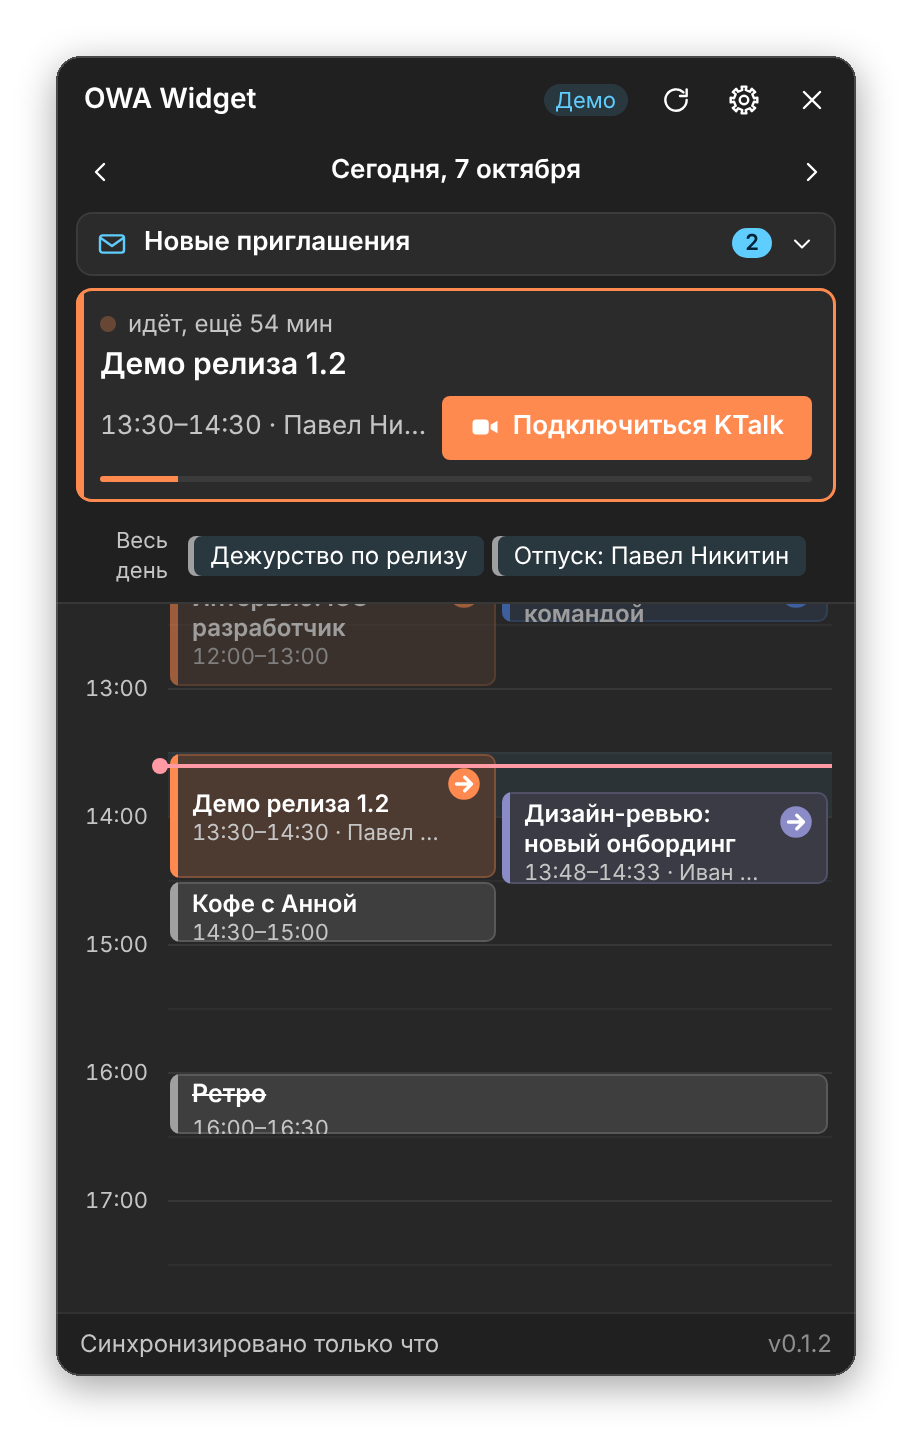
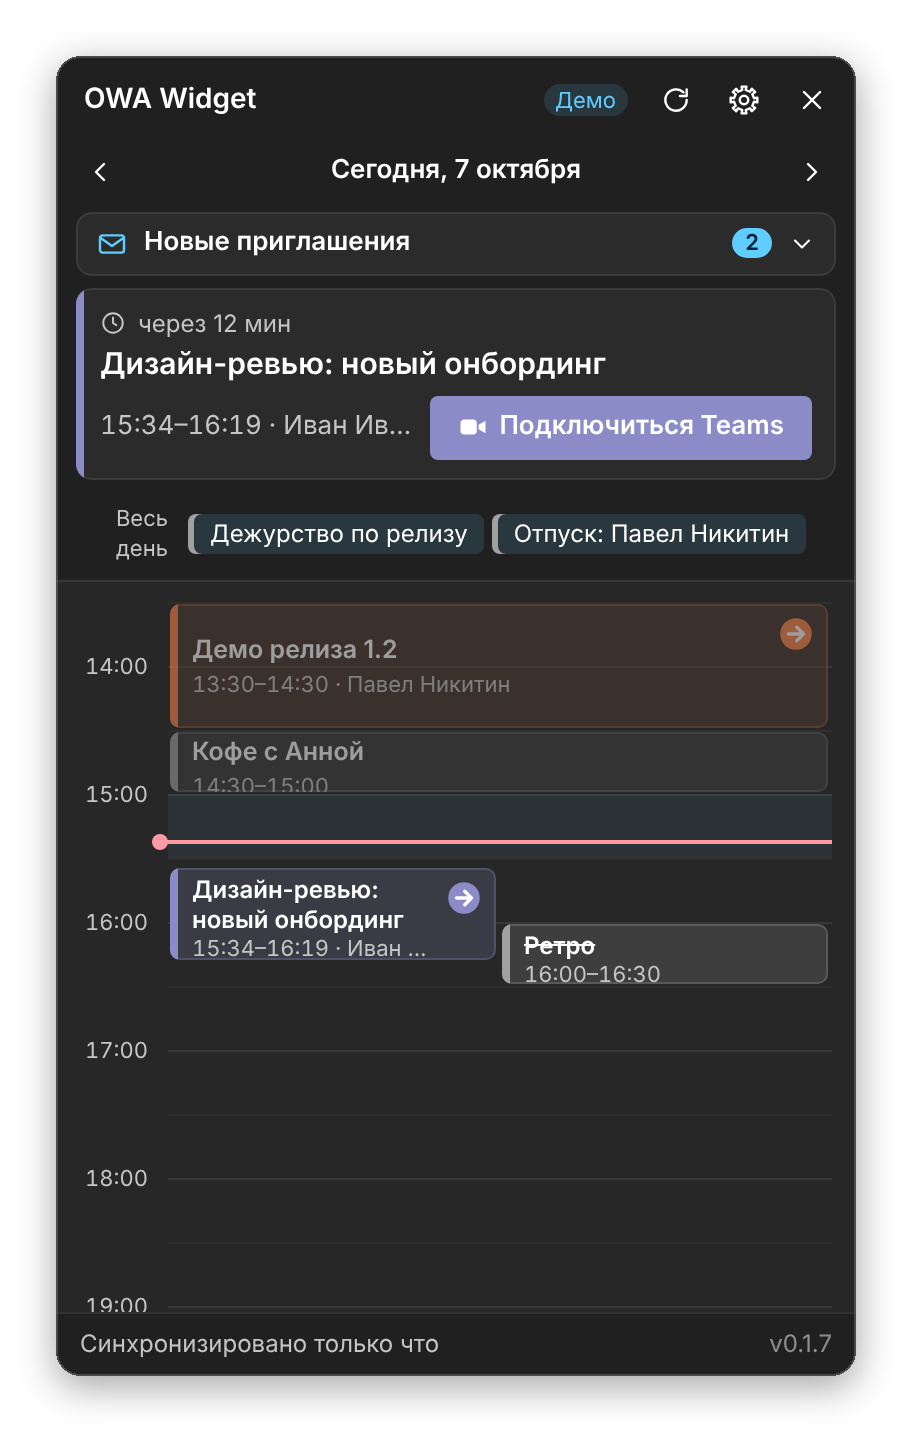
Working hours: the day timeline shows a configurable range (default 08:00–20:00), widened to keep every meeting in view

diff --git a/src/renderer/Timeline.tsx b/src/renderer/Timeline.tsx
@@ -1,7 +1,7 @@
 import { useEffect, useLayoutEffect, useMemo, useRef } from 'react';
 import type { CalendarEvent } from '../shared/types';
 import { displayTitle, isEffectivelyCancelled, joinUrlForActions, sameDay } from '../shared/events';
-import { layoutDay } from '../shared/timeline';
+import { layoutDay, visibleRange, type Workday } from '../shared/timeline';
 import { Icon } from './icons';
 import { range } from './format';
 import { eventColor } from './hooks';
@@ -13,24 +13,29 @@ interface Props {
   events: CalendarEvent[];
   day: Date;
   now: Date;
+  workday: Workday;
   t: Dict;
   lang: Lang;
   onOpen: (e: CalendarEvent) => void;
   onJoin: (e: CalendarEvent) => void;
 }
 
-export function Timeline({ events, day, now, t, lang, onOpen, onJoin }: Props) {
+export function Timeline({ events, day, now, workday, t, lang, onOpen, onJoin }: Props) {
   const ref = useRef<HTMLDivElement>(null);
   const isToday = sameDay(day, now);
   const blocks = useMemo(() => layoutDay(events, day), [events, day]);
   const nowMin = now.getHours() * 60 + now.getMinutes();
+  // The working day, widened to keep every meeting (and "now", today) in view.
+  const range0 = useMemo(() => visibleRange(blocks, workday, isToday ? nowMin : undefined), [blocks, workday, isToday, nowMin]);
+  const y = (min: number) => ((min - range0.startMin) * HOUR) / 60;
 
-  // Show from an hour before the first meeting (or an hour before now) down to the end of the day.
+  // Scroll to an hour before the first meeting (or an hour before now).
   const scrollTarget = useMemo(() => {
     const anchors = [...blocks.map((b) => b.startMin)];
-    const first = isToday ? Math.min(nowMin, ...(anchors.length ? anchors.filter((m) => m + 60 >= nowMin) : [nowMin])) : (anchors[0] ?? 8 * 60);
-    return Math.max(0, (first - 60) * (HOUR / 60));
-  }, [blocks, isToday, nowMin]);
+    const first = isToday ? Math.min(nowMin, ...(anchors.length ? anchors.filter((m) => m + 60 >= nowMin) : [nowMin])) : (anchors[0] ?? range0.startMin);
+    return Math.max(0, y(first - 60));
+    // eslint-disable-next-line react-hooks/exhaustive-deps
+  }, [blocks, isToday, nowMin, range0.startMin]);
 
   const dayKey = day.toDateString();
   useLayoutEffect(() => {
@@ -43,26 +48,28 @@ export function Timeline({ events, day, now, t, lang, onOpen, onJoin }: Props) {
     // keep layout stable on resize
   }, []);
 
-  const hours = Array.from({ length: 24 }, (_, h) => h);
+  const firstHour = range0.startMin / 60;
+  const lastHour = range0.endMin / 60;
+  const hours = Array.from({ length: lastHour - firstHour }, (_, i) => firstHour + i);
   const currentSlotStart = Math.floor(nowMin / 30) * 30;
 
   return (
     <div className="timeline scroll" ref={ref} role="list" aria-label="Meetings">
       {!blocks.length && <div className="empty" style={{ position: 'absolute', inset: 0 }}>{t.noMeetings}</div>}
-      <div className="tl-inner" style={{ height: 24 * HOUR + 12, marginTop: 10 }}>
-        {isToday && <div className="tl-slot" style={{ top: (currentSlotStart * HOUR) / 60, height: HOUR / 2 }} />}
+      <div className="tl-inner" style={{ height: (lastHour - firstHour) * HOUR + 12, marginTop: 10 }}>
+        {isToday && <div className="tl-slot" style={{ top: y(currentSlotStart), height: HOUR / 2 }} />}
         {hours.map((h) => (
           <div key={h}>
-            <div className="tl-hour tnum" style={{ top: h * HOUR }}>
-              {String(h).padStart(2, '0')}:00
+            <div className="tl-hour tnum" style={{ top: y(h * 60) }}>
+              {String(h % 24).padStart(2, '0')}:00
             </div>
-            <div className="tl-line" style={{ top: h * HOUR }} />
-            <div className="tl-line half" style={{ top: h * HOUR + HOUR / 2 }} />
+            <div className="tl-line" style={{ top: y(h * 60) }} />
+            <div className="tl-line half" style={{ top: y(h * 60) + HOUR / 2 }} />
           </div>
         ))}
         {blocks.map((b) => {
           const e = b.event;
-          const top = (b.startMin * HOUR) / 60 + 1;
+          const top = y(b.startMin) + 1;
           const height = Math.max(22, ((b.endMin - b.startMin) * HOUR) / 60 - 2);
           const colW = `calc((100% - 56px) / ${b.lanes})`;
           const link = joinUrlForActions(e);
@@ -100,7 +107,7 @@ export function Timeline({ events, day, now, t, lang, onOpen, onJoin }: Props) {
             </div>
           );
         })}
-        {isToday && <div className="tl-now" style={{ top: (nowMin * HOUR) / 60 }} />}
+        {isToday && <div className="tl-now" style={{ top: y(nowMin) }} />}
       </div>
     </div>
   );

diff --git a/src/renderer/Settings.tsx b/src/renderer/Settings.tsx
@@ -219,6 +219,46 @@ export function Settings({ snap }: { snap: Snapshot }) {
           </select>
         </div>
         <div className="setting-row">
+          <div className="label">
+            <div>{t.workday}</div>
+            <div className="hint">{t.workdayHint}</div>
+          </div>
+          <div className="row" style={{ gap: 8, alignItems: 'center' }}>
+            <span className="hint">{t.workdayFrom}</span>
+            <select
+              className="field"
+              style={{ width: 92 }}
+              value={s.workdayStartHour}
+              onChange={(e) => {
+                const start = Number(e.target.value);
+                setS({ ...s, workdayStartHour: start, workdayEndHour: Math.max(s.workdayEndHour, start + 1) });
+              }}
+            >
+              {Array.from({ length: 24 }, (_, h) => (
+                <option key={h} value={h}>
+                  {String(h).padStart(2, '0')}:00
+                </option>
+              ))}
+            </select>
+            <span className="hint">{t.workdayTo}</span>
+            <select
+              className="field"
+              style={{ width: 92 }}
+              value={s.workdayEndHour}
+              onChange={(e) => {
+                const end = Number(e.target.value);
+                setS({ ...s, workdayEndHour: end, workdayStartHour: Math.min(s.workdayStartHour, end - 1) });
+              }}
+            >
+              {Array.from({ length: 24 }, (_, i) => i + 1).map((h) => (
+                <option key={h} value={h}>
+                  {String(h % 24).padStart(2, '0')}:00
+                </option>
+              ))}
+            </select>
+          </div>
+        </div>
+        <div className="setting-row">
           <div className="label">{t.joinHotkey}</div>
           <Switch checked={s.joinHotkeyEnabled} onChange={(v) => setS({ ...s, joinHotkeyEnabled: v })} label={t.joinHotkey} />
         </div>

diff --git a/test/logic.test.ts b/test/logic.test.ts
@@ -121,3 +121,23 @@ describe('tray status', () => {
     expect(trayPresentation([], NOW).kind).toBe('nothing');
   });
 });
+
+describe('visible range of the day timeline', () => {
+  const blk = (startMin: number, endMin: number) => ({ event: {} as never, startMin, endMin, lane: 0, lanes: 1 });
+  it('is the working day when everything fits', async () => {
+    const { visibleRange } = await import('../src/shared/timeline');
+    expect(visibleRange([blk(9 * 60, 10 * 60)], { startHour: 8, endHour: 20 })).toEqual({ startMin: 480, endMin: 1200 });
+    expect(visibleRange([], { startHour: 8, endHour: 20 })).toEqual({ startMin: 480, endMin: 1200 });
+  });
+  it('widens to whole hours around meetings outside it', async () => {
+    const { visibleRange } = await import('../src/shared/timeline');
+    expect(visibleRange([blk(7 * 60 + 30, 8 * 60)], { startHour: 8, endHour: 20 })).toEqual({ startMin: 420, endMin: 1200 });
+    expect(visibleRange([blk(21 * 60, 22 * 60 + 15)], { startHour: 8, endHour: 20 })).toEqual({ startMin: 480, endMin: 1380 });
+  });
+  it('keeps the now line in view and never leaves the day', async () => {
+    const { visibleRange } = await import('../src/shared/timeline');
+    expect(visibleRange([], { startHour: 8, endHour: 20 }, 23 * 60 + 40)).toEqual({ startMin: 480, endMin: 1440 });
+    expect(visibleRange([], { startHour: 8, endHour: 20 }, 6 * 60 + 5)).toEqual({ startMin: 360, endMin: 1200 });
+    expect(visibleRange([blk(23 * 60, 1440)], { startHour: 0, endHour: 24 })).toEqual({ startMin: 0, endMin: 1440 });
+  });
+});

diff --git a/src/shared/validate.ts b/src/shared/validate.ts
@@ -43,6 +43,7 @@ export function sanitizeSettings(raw: unknown, base: AppSettings): AppSettings {
     // A 1 ms or NaN interval would hammer the server and lock the domain account.
     syncIntervalMinutes: intIn(r.syncIntervalMinutes, 1, 24 * 60, base.syncIntervalMinutes),
     reminderMinutes: intIn(r.reminderMinutes, -1, 60, base.reminderMinutes),
+    ...workday(r, base),
     launchAtLogin: bool(r.launchAtLogin, base.launchAtLogin),
     theme: oneOf(r.theme, THEMES, base.theme),
     language: oneOf(r.language, LANGS, base.language),
@@ -56,6 +57,13 @@ export function readStoredPin(raw: unknown): Pick<AppSettings['account'], 'trust
   const a = isObj(raw) && isObj(raw.account) ? raw.account : {};
   const host = text(a.trustedCertHost, 255).trim().toLowerCase();
   return isFingerprint(a.trustedCertFingerprint) && host ? { trustedCertFingerprint: a.trustedCertFingerprint, trustedCertHost: host } : {};
+}
+
+/** Start before end, both on the hour; anything else falls back to the current values. */
+function workday(r: Record<string, unknown>, base: AppSettings): Pick<AppSettings, 'workdayStartHour' | 'workdayEndHour'> {
+  const start = intIn(r.workdayStartHour, 0, 23, base.workdayStartHour);
+  const end = intIn(r.workdayEndHour, 1, 24, base.workdayEndHour);
+  return start < end ? { workdayStartHour: start, workdayEndHour: end } : { workdayStartHour: base.workdayStartHour, workdayEndHour: base.workdayEndHour };
 }
 
 export function sanitizeUpdate(raw: unknown, base: AppSettings): SettingsUpdate {

diff --git a/src/shared/timeline.ts b/src/shared/timeline.ts
@@ -10,6 +10,29 @@ export interface TimelineBlock {
   lanes: number;
 }
 
+export interface Workday {
+  startHour: number;
+  endHour: number;
+}
+
+/**
+ * Hours the timeline draws: the working day, widened to whole hours so that every meeting of the
+ * day (and the "now" line, when the day is today) stays in view.
+ */
+export function visibleRange(blocks: TimelineBlock[], workday: Workday, nowMin?: number): { startMin: number; endMin: number } {
+  let startMin = Math.max(0, Math.min(23, workday.startHour)) * 60;
+  let endMin = Math.max(startMin + 60, Math.min(24, workday.endHour) * 60);
+  for (const b of blocks) {
+    startMin = Math.min(startMin, Math.floor(b.startMin / 60) * 60);
+    endMin = Math.max(endMin, Math.ceil(Math.max(b.endMin, b.startMin + 1) / 60) * 60);
+  }
+  if (nowMin !== undefined) {
+    startMin = Math.min(startMin, Math.floor(nowMin / 60) * 60);
+    endMin = Math.max(endMin, Math.min(1440, Math.ceil((nowMin + 1) / 60) * 60));
+  }
+  return { startMin, endMin: Math.min(1440, endMin) };
+}
+
 export function layoutDay(events: CalendarEvent[], day: Date): TimelineBlock[] {
   const dayStart = new Date(day.getFullYear(), day.getMonth(), day.getDate()).getTime();
   const dayEnd = new Date(day.getFullYear(), day.getMonth(), day.getDate() + 1).getTime();

diff --git a/src/renderer/i18n.ts b/src/renderer/i18n.ts
@@ -100,6 +100,10 @@ const ru = {
   reminderAtStart: 'В момент начала',
   reminderBefore: (n: number) => `За ${n} мин`,
   syncEvery: 'Обновлять календарь',
+  workday: 'Рабочий день',
+  workdayHint: 'Таймлайн показывает эти часы; встречи вне них всё равно видны',
+  workdayFrom: 'с',
+  workdayTo: 'до',
   everyMin: (n: number) => `Каждые ${n} мин`,
   launchAtLogin: 'Запускать при входе в Windows',
   joinHotkey: 'Ctrl+Alt+J подключает к текущей встрече',
@@ -228,6 +232,10 @@ const en: Dict = {
   reminderAtStart: 'When it starts',
   reminderBefore: (n) => `${n} min before`,
   syncEvery: 'Refresh calendar',
+  workday: 'Working hours',
+  workdayHint: 'The timeline shows these hours; meetings outside them are still shown',
+  workdayFrom: 'from',
+  workdayTo: 'to',
   everyMin: (n) => `Every ${n} min`,
   launchAtLogin: 'Start when I sign in to Windows',
   joinHotkey: 'Ctrl+Alt+J joins the current meeting',

diff --git a/test/security.test.ts b/test/security.test.ts
@@ -171,3 +171,14 @@ describe('where the password may be posted', () => {
     expect(owaLoginForm('<h1>Not found</h1>', PAGE, BASE)).toBeNull();
   });
 });
+
+describe('working hours setting', () => {
+  it('keeps start before end and within the day', async () => {
+    const { sanitizeSettings } = await import('../src/shared/validate');
+    const ok = sanitizeSettings({ workdayStartHour: 9, workdayEndHour: 18 }, DEFAULT_SETTINGS);
+    expect([ok.workdayStartHour, ok.workdayEndHour]).toEqual([9, 18]);
+    const bad = sanitizeSettings({ workdayStartHour: 20, workdayEndHour: 8 }, DEFAULT_SETTINGS);
+    expect([bad.workdayStartHour, bad.workdayEndHour]).toEqual([DEFAULT_SETTINGS.workdayStartHour, DEFAULT_SETTINGS.workdayEndHour]);
+    expect(sanitizeSettings({ workdayStartHour: -3, workdayEndHour: 99 }, DEFAULT_SETTINGS).workdayEndHour).toBe(24);
+  });
+});

diff --git a/src/renderer/api.ts b/src/renderer/api.ts
@@ -15,6 +15,8 @@ function mockApi(): OwaApi {
     account: { serverUrl: 'mail.example.ru', useWindowsAuth: true, username: '', hasPassword: false },
     syncIntervalMinutes: 5,
     reminderMinutes: 1,
+    workdayStartHour: 8,
+    workdayEndHour: 20,
     launchAtLogin: true,
     theme: (params.get('theme') as AppSettings['theme']) ?? 'system',
     language: (params.get('lang') as AppSettings['language']) ?? 'ru',
@@ -26,7 +28,7 @@ function mockApi(): OwaApi {
     sync: { phase: 'ok', lastSuccess: new Date().toISOString() },
     settings,
     demo: true,
-    version: '0.1.6',
+    version: '0.1.7',
     taskbarLight: false,
     logPath: 'C:\\Users\\you\\AppData\\Roaming\\OWA Widget\\logs\\owa-widget.log',
   };

diff --git a/src/renderer/Popup.tsx b/src/renderer/Popup.tsx
@@ -140,7 +140,16 @@ export function Popup({ snap }: { snap: Snapshot }) {
           </div>
         )}
 
-        <Timeline events={dayEvents} day={day} now={now} t={t} lang={lang} onOpen={setOpen} onJoin={join} />
+        <Timeline
+          events={dayEvents}
+          day={day}
+          now={now}
+          workday={{ startHour: snap.settings.workdayStartHour, endHour: snap.settings.workdayEndHour }}
+          t={t}
+          lang={lang}
+          onOpen={setOpen}
+          onJoin={join}
+        />
 
         <div className={`foot${sync.phase === 'error' ? ' err' : ''}`}>
           {sync.phase === 'syncing' && (

diff --git a/src/shared/types.ts b/src/shared/types.ts
@@ -94,6 +94,9 @@ export interface AppSettings {
   syncIntervalMinutes: number;
   /** Minutes before start to show the reminder; -1 disables reminders. */
   reminderMinutes: number;
+  /** Hours the day timeline shows by default (meetings outside them widen the view). 0–23 and 1–24. */
+  workdayStartHour: number;
+  workdayEndHour: number;
   launchAtLogin: boolean;
   theme: ThemePref;
   language: LanguagePref;

diff --git a/src/main/store.defaults.ts b/src/main/store.defaults.ts
@@ -6,6 +6,8 @@ export const DEFAULT_SETTINGS: AppSettings = {
   account: { serverUrl: 'owa.alfabank.ru', useWindowsAuth: true, username: '', hasPassword: false },
   syncIntervalMinutes: 5,
   reminderMinutes: 1,
+  workdayStartHour: 8,
+  workdayEndHour: 20,
   launchAtLogin: true,
   theme: 'system',
   language: 'system',

diff --git a/README.md b/README.md
@@ -44,6 +44,7 @@
 - **Ctrl+Alt+J** подключает к текущей встрече из любого приложения.
 - **Вход.** Если логин и пароль не указаны — под учётной записью Windows (Kerberos / NTLM, пароль не нужен); если указаны — по ним: NTLM, а для старых серверов — форма входа OWA. В поле адреса нужен сервер OWA (тот, что в адресной строке браузера, например `mail.company.ru`), а не адрес почты; по умолчанию подставлен `owa.alfabank.ru`, при первом запуске открываются настройки, где его можно заменить.
 - **Безопасность.** Пароль шифруется Windows (DPAPI) и уходит только на ваш сервер. Только HTTPS, перенаправления на другой хост обрываются. Сертификаты проверяются по хранилищу Windows; внутреннему сертификату можно довериться только в системном окне с отпечатком. Кеш встреч зашифрован. Ссылки открываются только `http(s)`. Подробности и проверка скачанного файла: [SECURITY.md](SECURITY.md).
+- **Рабочий день.** Таймлайн показывает только рабочие часы (по умолчанию 08:00–20:00, настраивается); встречи вне этих часов всё равно видны — диапазон расширяется под них.
 - Светлая и тёмная темы, русский и английский, автозапуск, три размера окна.
 
 ## Чего пока нет по сравнению с macOS-версией
